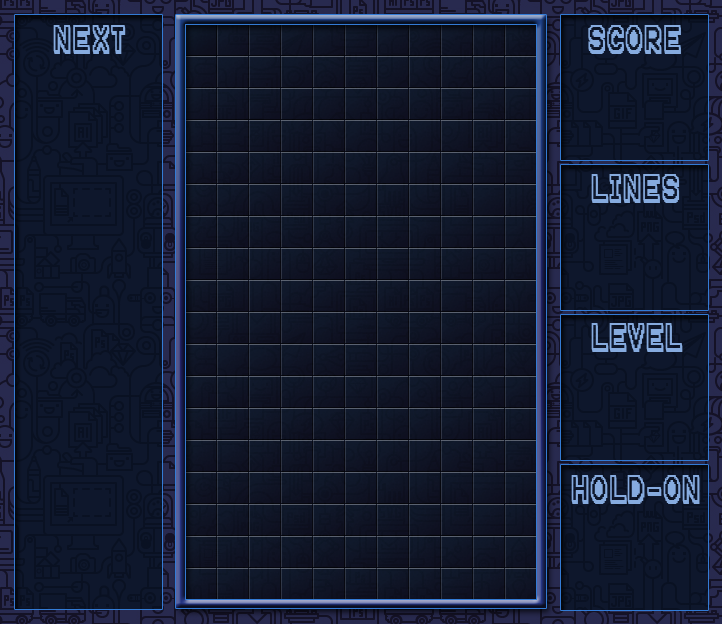
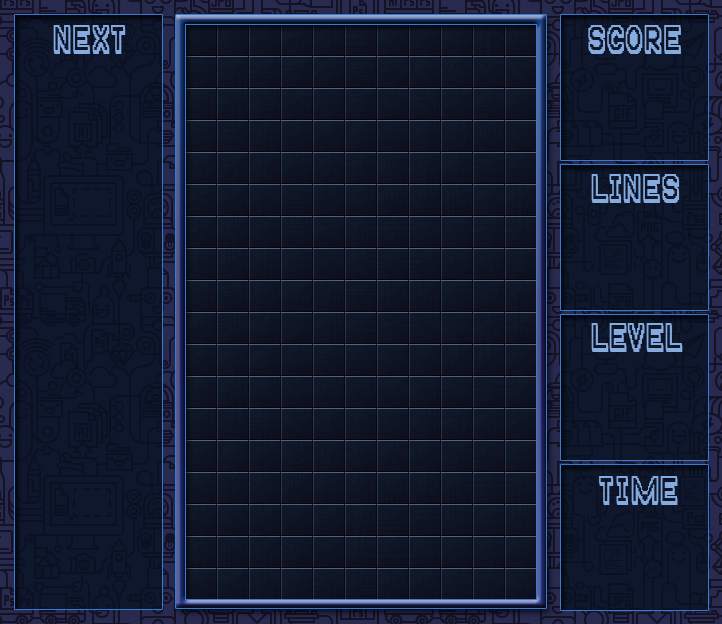
commit time en gui

Changed region(s): [[0.7922, 0.7612, 0.9751, 0.8221]]

diff --git a/src/GUI/GUI.java b/src/GUI/GUI.java
@@ -28,6 +28,7 @@ public class GUI {
 	private JLabel lineas;
 	private JLabel nivel;
 	private JLabel pausaLbl;
+	private JLabel tiempo ;
 	/**
 	 * Launch the application.
 	 */
@@ -72,14 +73,21 @@ public class GUI {
 		nivel.setFont(new Font("Ebrima", Font.BOLD, 41));
 		nivel.setBounds(515, 389, 129, 173);
 		frame.getContentPane().add(nivel);
+		
+		tiempo = new JLabel("0", SwingConstants.CENTER);
+		tiempo.setForeground(SystemColor.activeCaption);
+		tiempo.setFont(new Font("Ebrima", Font.BOLD, 41));
+		tiempo.setBounds(515, 573, 129, 173);
+		frame.getContentPane().add(tiempo);
 			
-		JLabel cuadrado=new JLabel();    
-		frame.getContentPane().add(cuadrado);
+		JLabel cuadrado=new JLabel();    		
 		cuadrado.setBounds(0, 0,658, 762);                
 		cuadrado.setBorder(new BevelBorder(BevelBorder.LOWERED, null, null, null, null));
 		ImageIcon ico= new ImageIcon(Toolkit.getDefaultToolkit().getImage(this.getClass().getResource("/Imagenes/fondo.png")));	
 		ImageIcon img =new ImageIcon(ico.getImage().getScaledInstance(cuadrado.getWidth(), cuadrado.getHeight(), Image.SCALE_SMOOTH));
 		cuadrado.setIcon(img);
+		frame.getContentPane().add(cuadrado);
+		
 		
 	}
 
@@ -147,9 +155,13 @@ public class GUI {
 	public void aumentarNivel(int nivelActual) {
 		nivel.setText(""+nivelActual);
 	}
+public void mostrarTiempo(int tiempoActual) {
+		tiempo.setText(""+tiempoActual);
+	}
 	public void mostrarGameOver() {
 		
 	}
+	
 	public void pausar() {
 		pausaLbl.setVisible(true);
 	}

diff --git a/src/Logica/Logica.java b/src/Logica/Logica.java
@@ -21,6 +21,7 @@ public class Logica {
     private int nivelActual;
     private int lineasEliminadas;
     private int puntajeActual;
+    private int tiempoActual;
     private boolean estaPausado;
     private boolean gameOver;
     Thread relojThread;
@@ -44,7 +45,8 @@ public class Logica {
         puntajeActual = 0;
         estaPausado = false;
         gameOver = false;
-
+        
+        tiempoActual=0;
         miReloj = new Reloj (this);
         relojThread = new Thread(miReloj);
         iniciarJuego(); 
@@ -91,6 +93,8 @@ public class Logica {
     public int getNivelActual() {
     	return nivelActual;
     }
+    
+    
  
     
     /**
@@ -218,6 +222,11 @@ public class Logica {
 	    	nivelActual = 1;
 	    	miGui.aumentarNivel(nivelActual);
 	    }
+    }
+    
+    public void aumentarTiempo() {
+    	tiempoActual++;
+    	miGui.mostrarTiempo(tiempoActual);
     }
 
     public void moverAbajo() {

diff --git a/src/Entidades/Reloj.java b/src/Entidades/Reloj.java
@@ -14,6 +14,7 @@ public class Reloj implements Runnable{
 	        if(!LOGICA.estaPausado() && !LOGICA.gameOver()) {
 	        	try {
 					LOGICA.moverAbajo();
+					LOGICA.aumentarTiempo();
 					Thread.sleep(1400 - 200* LOGICA.getNivelActual());
 				} catch (InterruptedException e) {
 					e.printStackTrace();
